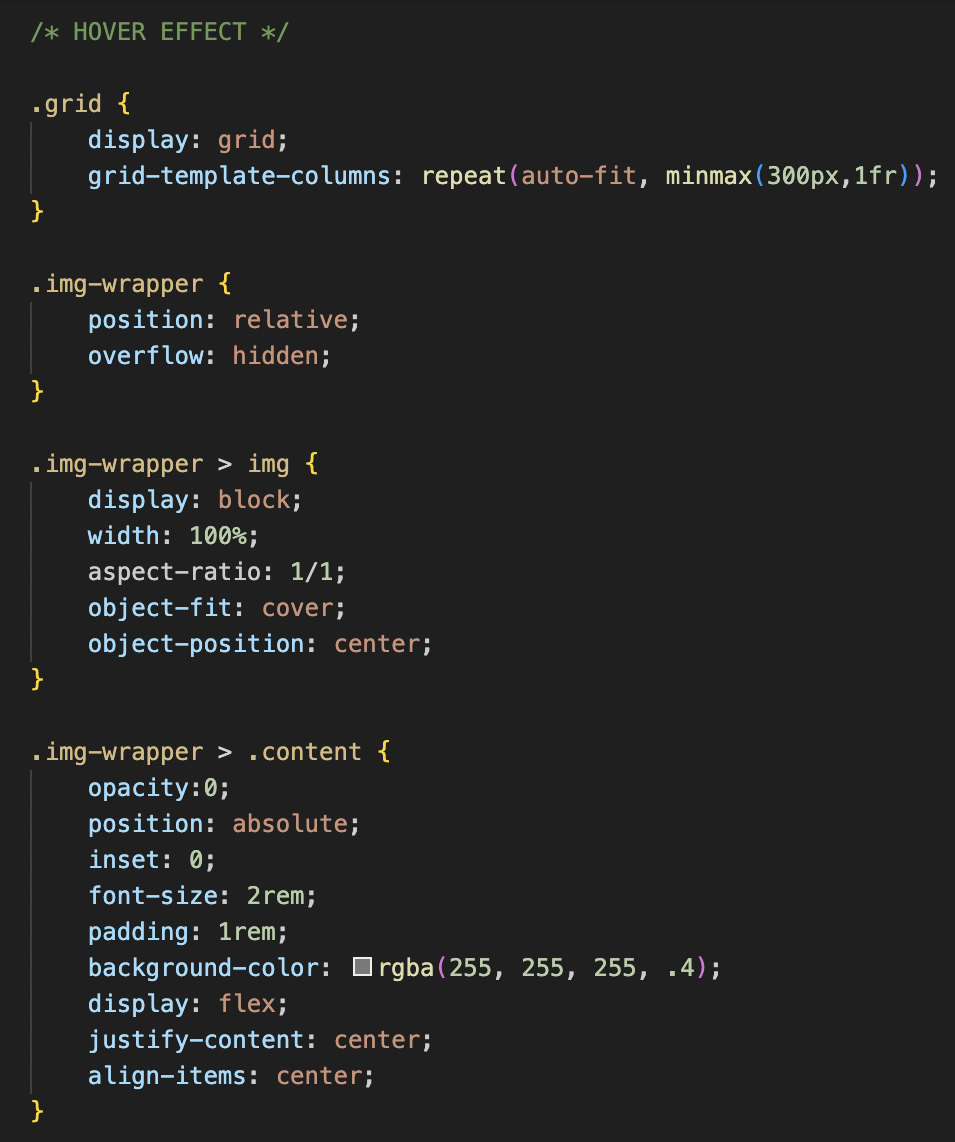
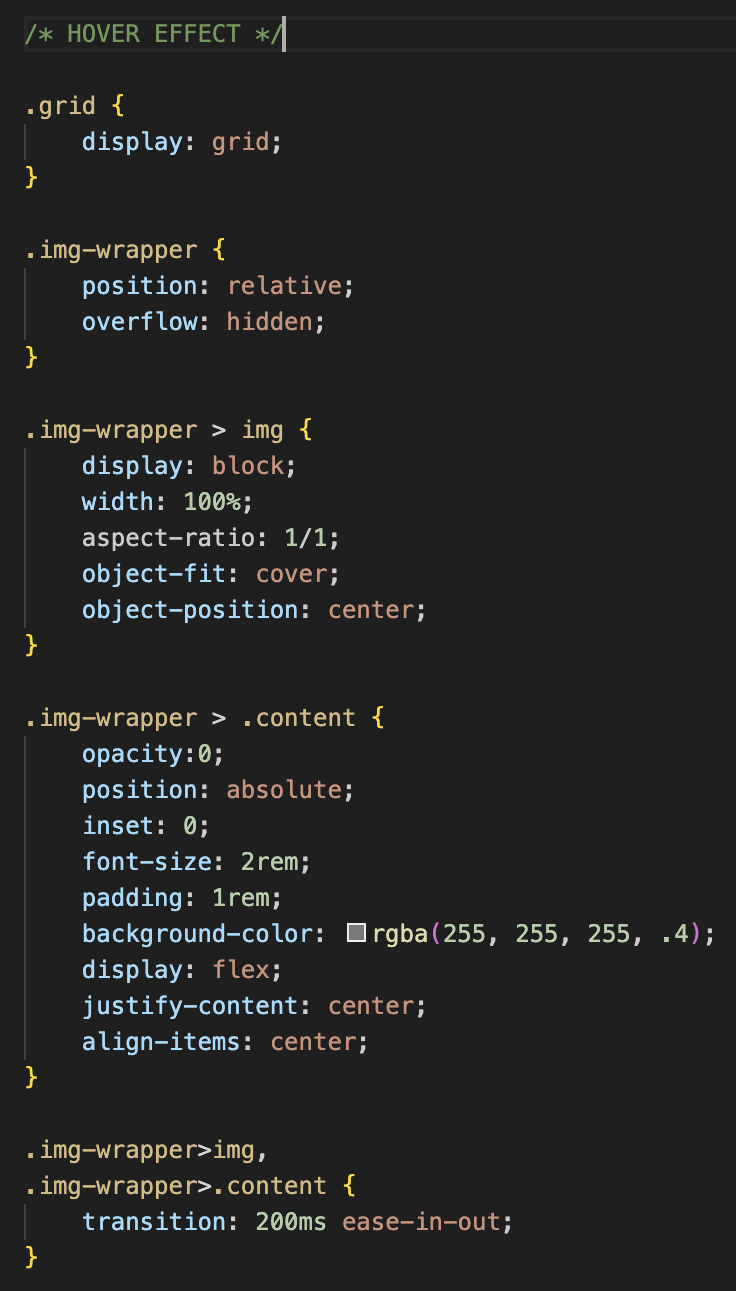
pic changes

diff --git a/css/style.css b/css/style.css
@@ -152,12 +152,13 @@ margin-bottom: 10%;
 
 #gallery {
     background-color: whitesmoke;
-}
-
-#gallery {
     border: 10px solid #0e504a;
     border-radius: 10px;
     text-align: center;
+}
+
+#gallery img{
+    padding-left: 3px;
 }
 
 
@@ -247,7 +248,6 @@ font-size: 1rem;
 
 .grid {
     display: grid;
-    grid-template-columns: repeat(auto-fit, minmax(300px,1fr));
 }
 
 .img-wrapper {
@@ -322,15 +322,12 @@ font-size: 1rem;
 /* GALLERY */
 
  #gallery img { 
-    max-width: 80%;
+     max-width: 80%;
      padding-left: 10%; 
 }  
 
 #gallery {
     margin-top: 12px;
-}
-
-#gallery {
     border: 10px solid #0e504a;
     border-radius: 10px;
     text-align: center;

diff --git a/index.html b/index.html
@@ -212,8 +212,7 @@
             <img class="s1" src="img/step 1.png">
 
             <h6>STEP 2</h6>
-            <p>Start with creating the class .grid. After, arrange the images into a grid using display:grid, 
-                and defining the columns with grid-template-columns. Afterwards, create your image-wrapper 
+            <p>Start with creating the class .grid. After, arrange the images into a grid using display:grid. Afterwards, create your image-wrapper 
                 and experiment with its various structures. To place the wrapper, set the position to absolute and inset:0. 
 
             </p>
